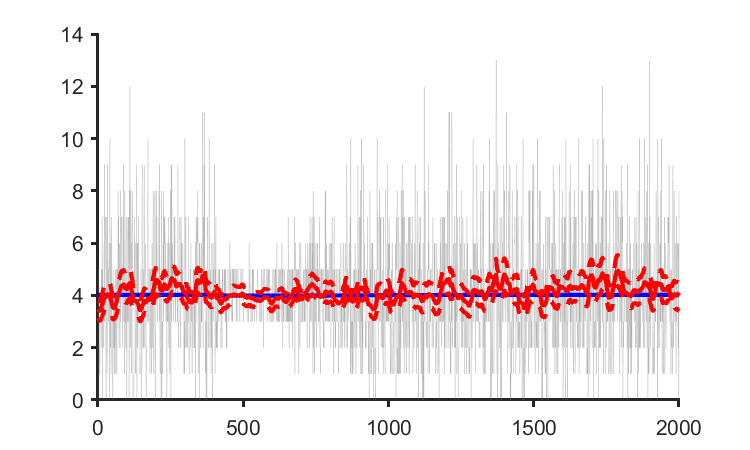
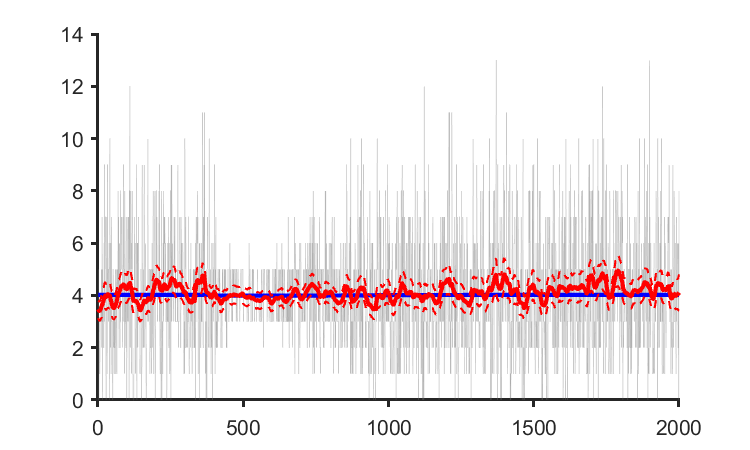
figure2_update

Changed region(s): [[0.1227, 0.56, 0.92, 0.7156]]

diff --git a/demo/figure2/demo_figure2.m b/demo/figure2/demo_figure2.m
@@ -120,8 +120,8 @@ plot(theo_mean, 'b', 'LineWidth', 2)
 plot(CMP_mean_fit, 'r', 'LineWidth', 2)
 % plot(CMP_mean_fit+ 1.96*sqrt(var_rate_app'), 'r--', 'LineWidth', 2)
 % plot(CMP_mean_fit- 1.96*sqrt(var_rate_app'), 'r--', 'LineWidth', 2)
-plot(CMP_mean_fit+ sqrt(var_rate_exact'), 'r--', 'LineWidth', 2)
-plot(CMP_mean_fit- sqrt(var_rate_exact'), 'r--', 'LineWidth', 2)
+plot(CMP_mean_fit+ sqrt(var_rate_exact'), 'r--', 'LineWidth', 1)
+plot(CMP_mean_fit- sqrt(var_rate_exact'), 'r--', 'LineWidth', 1)
 hold off
 set(gca,'FontSize',10, 'LineWidth', 1.5,'TickDir','out')
 box off
